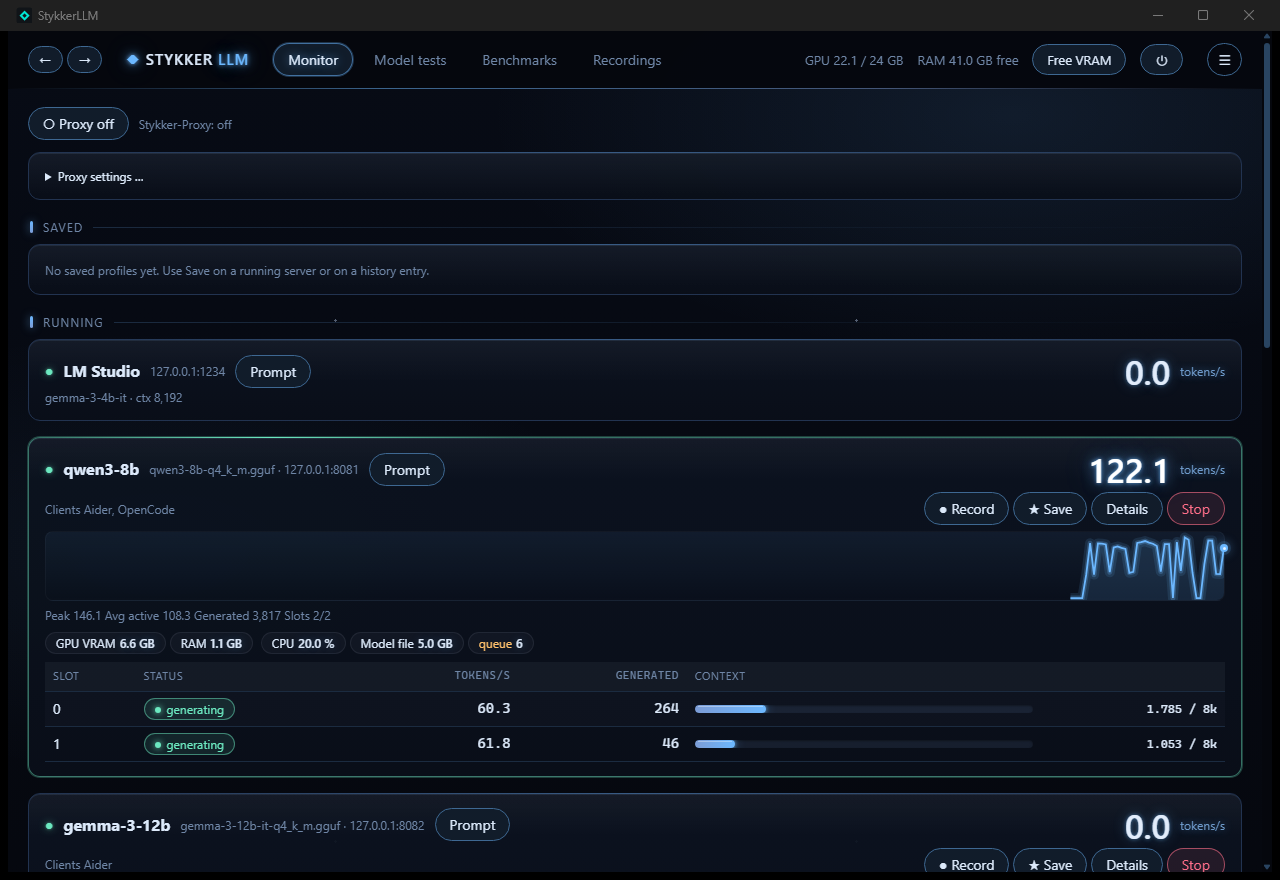
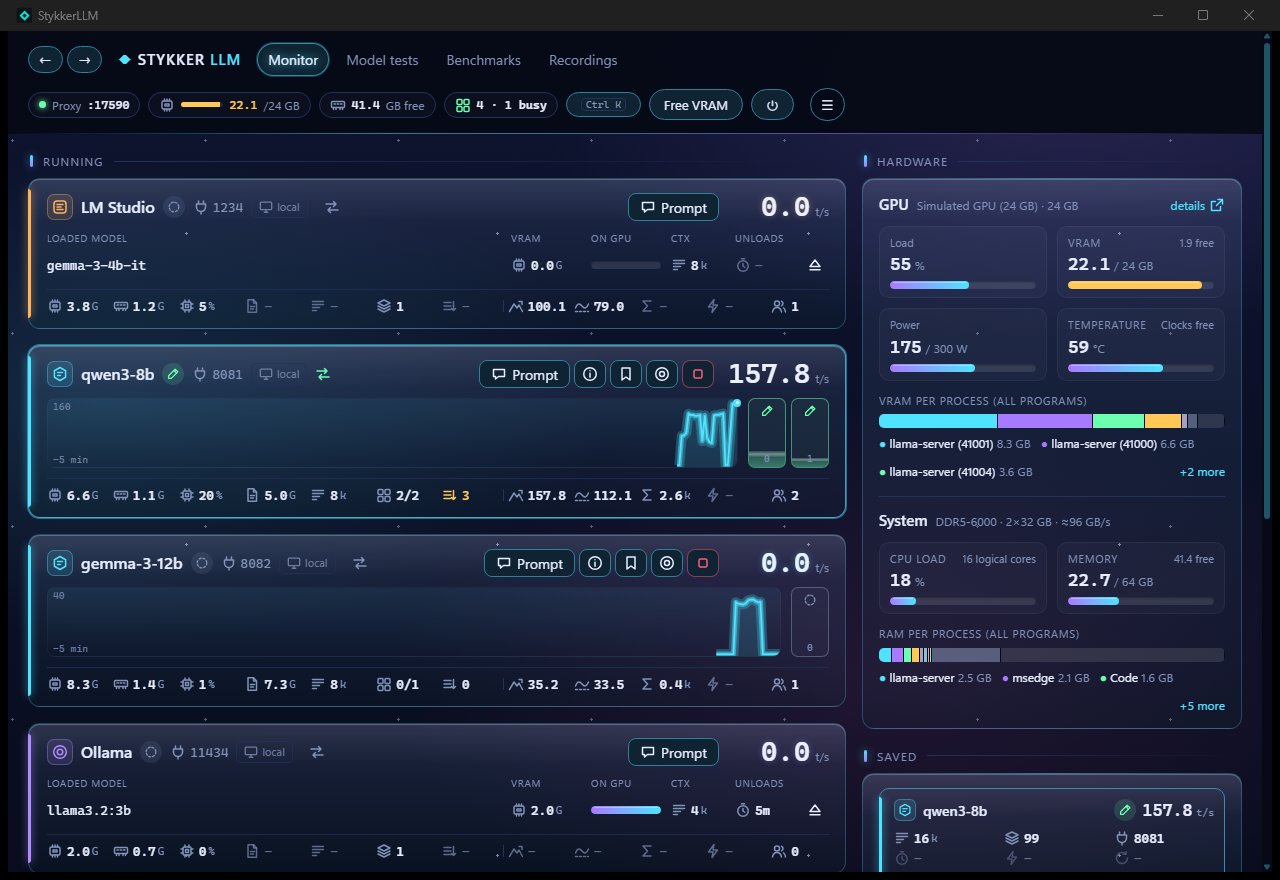
Doku-Bilder im neuen Design; Benchmarks im Simulator, Kopfleiste bricht im Fenster um
- docs/images: benchmarks.png, window.png, phone.png (statt phone.jpg) aus dem Simulator
- MonitorEngine.BenchClient: der Simulator leitet Benchmark-Anfragen auf seine Welt um
- BenchmarkService: ohne Kontextangabe gilt die Slot-Größe des Servers (Kontext-Leiter läuft)
- Bench: Platzhalter "Pick a running server or a saved profile"
- app.css: Statusleiste im Kopf bricht unter 1400 px und im Fenster um
- Test N65: Benchmark mit Kontext-Stufe im Simulator

diff --git a/src/StykkerLlm.Server/wwwroot/app.css b/src/StykkerLlm.Server/wwwroot/app.css
@@ -643,7 +643,8 @@ html[data-theme=titan] .pf.tight{background-image:repeating-linear-gradient(-45d
 html[data-theme=titan] nav a{font-family:var(--font);letter-spacing:.02em}
 .brand .logo{animation:none}
 .top{flex-wrap:nowrap}.top nav{flex:none}.top .status{min-width:0;flex-wrap:nowrap}.top .status button,.top .status a{white-space:nowrap}
-@media(max-width:1180px){.top{flex-wrap:wrap}.top .status{flex-wrap:wrap;overflow:visible}}
+@media(max-width:1400px){.top{flex-wrap:wrap}.top .status{flex-wrap:wrap;overflow:visible;margin-left:0}}
+html.shell .top{flex-wrap:wrap}html.shell .top .status{flex-wrap:wrap}   /* Fenster: Zurück/Vor brauchen zusätzlich Platz */
 [data-view=small] .top{flex-wrap:wrap}[data-view=small] .top .status{flex-wrap:wrap;overflow:visible}
 .theme-seg button{min-width:110px}
 @media(max-width:1560px){.hsearch span:first-child{display:none}.top nav a{padding:5px 10px}.top{gap:12px 16px}}

diff --git a/tests/StykkerLlm.Tests/N65_SimBenchmarkTests.cs b/tests/StykkerLlm.Tests/N65_SimBenchmarkTests.cs
@@ -1,0 +1,33 @@
+using StykkerLlm.Core;
+
+namespace StykkerLlm.Tests;
+
+// Benchmarks laufen auch im Simulator (für Vorführung und Doku-Bilder); ohne Kontextangabe der Seite nimmt der Dienst
+// die Slot-Größe des Servers, sonst entfiele die Kontext-Leiter
+[TestClass]
+public class N65_SimBenchmarkTests
+{
+    [TestMethod, Timeout(60000)]
+    public async Task Benchmark_RunsInTheSimulator_WithTheContextLadder()
+    {
+        var spec = new SimServerSpec { Kind = BackendKind.LlamaCpp, Name = "sim-b", Model = "m", Context = 8192, Slots = 1, TpsMin = 400, TpsMax = 500 };
+        using var host = new SimHost(new List<SimServerSpec> { spec }, seed: 7, autoStep: true);
+        host.World.Start();
+        ServerWatcher? w = null;
+        for (int i = 0; i < 20 && (w == null || !w.Online || w.Slots.Count == 0); i++)
+        {
+            await host.Engine.Registry.RefreshNowAsync();
+            await host.Engine.TickAsync();
+            w = host.Engine.Servers.FirstOrDefault(s => s.Name == "sim-b");
+        }
+        Assert.IsNotNull(w, "der simulierte Server wird erkannt");
+
+        var options = new BenchOptions { Chat = true, Tool = false, Parallel = false, ContextSizes = new[] { 1024 }, ContextPerSlot = 0, GenTokens = 16 };
+        var result = await new BenchmarkService().RunAsync(host.Engine, new LaunchCoordinator(host.Engine, new RemotePrompt()), w!.Key, options);
+        Assert.IsNotNull(result);
+        string steps = string.Join("; ", result.Steps.Select(s => $"{s.Kind}/{s.Name}:{s.Ok} {s.Note}"));
+        Assert.IsTrue(result.Steps.Any(s => s.Kind == "chat" && s.Ok), steps);
+        Assert.IsTrue(result.Steps.Any(s => s.Kind == "context" && s.Ok), "Kontext-Stufe ohne Angabe der Seite: " + steps);
+        Assert.IsTrue(result.ContextPerSlot > 0);
+    }
+}

diff --git a/src/StykkerLlm.Core/Server/BenchmarkService.cs b/src/StykkerLlm.Core/Server/BenchmarkService.cs
@@ -46,12 +46,18 @@ public sealed class BenchmarkService
                 options.ContextPerSlot = Math.Max(1, (server.Props?.NCtx ?? options.ContextPerSlot * options.Slots) / Math.Max(1, options.Slots));
                 options.Slots = Math.Max(1, server.Props?.TotalSlots ?? options.Slots);
             }
+            // Kontext je Slot unbekannt (Seite ohne /props-Angabe): aus den Slots des Servers, sonst entfiele die Kontext-Leiter
+            if (options.ContextPerSlot <= 0)
+            {
+                int perSlot = server.Slots.Count > 0 ? server.Slots.Max(v => v.CtxMax) : (server.Props?.NCtx ?? 0) / Math.Max(1, server.Props?.TotalSlots ?? 1);
+                if (perSlot > 0) { options.ContextPerSlot = perSlot; options.Slots = Math.Max(options.Slots, server.Slots.Count); }
+            }
             options.ApiKey = server.Info.ApiKey;
             if (!engine.Recorder.IsRecording(server.Key))
                 session = engine.Recorder.Start(server.Key, engine.Servers, engine.Gpu?.Name ?? "", false);
             result = BenchmarkRunner.Describe(server, engine.Library, engine.Gpu?.Name ?? "", engine.Platform.GpuDriver);
             Current = result;
-            using var http = new HttpClient { Timeout = Timeout.InfiniteTimeSpan };
+            using var http = engine.BenchClient?.Invoke() ?? new HttpClient { Timeout = Timeout.InfiniteTimeSpan };
             await BenchmarkRunner.RunAsync(http, server.Url, options, result,
                 msg => Say(msg),
                 step => Progress?.Invoke("", step),

diff --git a/src/StykkerLlm.Core/Strings.Ui.cs b/src/StykkerLlm.Core/Strings.Ui.cs
@@ -234,6 +234,7 @@ public static partial class Strings
     public const string BenchRepeats = "Repeats", BenchGenTokens = "Tokens per test";
     public const string BenchRun = "Run benchmark …", BenchResults = "Saved results", BenchWillStart = "(not running: will be started)";
     public const string BenchNoTarget = "There is no running llama.cpp server and no saved profile to measure.";
+    public const string BenchPickTarget = "Pick a running server or a saved profile …";
     public const string BenchNothingSelected = "Select at least one test.";
     public static string BenchStarting(string name) => $"Starting profile \"{name}\" and waiting for the server …";
     public const string BenchStartFailed = "The profile could not be started.", BenchCancelled = "Cancelled. The finished steps were saved.";

diff --git a/src/StykkerLlm.Core/Simulation/SimHost.cs b/src/StykkerLlm.Core/Simulation/SimHost.cs
@@ -44,6 +44,7 @@ public sealed class SimHost : IDisposable
         foreach (var s in specs) World.Add(s);
         Engine = new MonitorEngine(Platform, Paths, Settings, Http, simulation: World,
             proxyFactory: port => new SimRouterProxy(port));
+        Engine.BenchClient = () => new HttpClient(new SimHandler(World)) { Timeout = Timeout.InfiniteTimeSpan };
         World.Observed += (key, rec) =>
         {
             if (Engine.Proxies.Proxy is SimRouterProxy p) p.Observe(rec);

diff --git a/src/StykkerLlm.Core/MonitorEngine.cs b/src/StykkerLlm.Core/MonitorEngine.cs
@@ -12,6 +12,8 @@ public sealed class MonitorEngine : IDisposable
     private const double VramWarnGb = 1.0;
 
     private readonly HttpClient _http;
+    // Client für Benchmarks (ohne Zeitgrenze); der Simulator setzt seinen eigenen, damit Benchmarks auch dort laufen
+    public Func<HttpClient>? BenchClient { get; set; }
     private readonly bool _ownsHttp;
     private readonly Func<DateTime> _now;
     private bool _discovered, _polling, _vramLow, _disposed;

diff --git a/docs/plan-ui-redesign.md b/docs/plan-ui-redesign.md
@@ -1,6 +1,6 @@
 # Plan: new web interface (Dark + Spacepunk Titan)
 
-Status: **U1–U14 done** (2026-10-08). README monitor images captured with headless Edge (Dark and Titan); also model tests and GPU; benchmarks, phone and window images still show the old design. Stop keeps its detailed confirm dialog (process, PID, clients) instead of a small popover. Approved by the owner on 2026-10-07. Work happens on `dev`, package by package; after each package:
+Status: **U1–U14 done** (2026-10-08). README monitor images captured with headless Edge (Dark and Titan); also model tests, GPU, benchmarks (the simulator now runs benchmarks) and phone; the window image comes from StykkerUI against the simulator. Only the TUI image is older. Stop keeps its detailed confirm dialog (process, PID, clients) instead of a small popover. Approved by the owner on 2026-10-07. Work happens on `dev`, package by package; after each package:
 build, all tests, a screenshot in Dark and Titan, commit.
 
 Reference: the mockups in `docs/design/` (open them in a browser, controls at the bottom left).

diff --git a/README.de.md b/README.de.md
@@ -62,7 +62,7 @@ jedem Browser oder auf dem Handy; im Terminal behältst du alles im Blick. Nicht
 ![Fenster StykkerUI](docs/images/window.png)
 
 <table><tr>
-<td width="30%"><img src="docs/images/phone.jpg" alt="Handy-Ansicht"></td>
+<td width="30%"><img src="docs/images/phone.png" alt="Handy-Ansicht"></td>
 <td><img src="docs/images/tui.png" alt="Anzeige im Terminal (stykker)"></td>
 </tr><tr><td>Handy (kompakte Ansicht)</td><td>Terminal: <code>stykker</code>, Details eines Servers offen</td></tr></table>
 

diff --git a/README.md b/README.md
@@ -61,7 +61,7 @@ any browser or your phone; keep an eye on it in the terminal. Nothing leaves you
 ![StykkerUI window](docs/images/window.png)
 
 <table><tr>
-<td width="30%"><img src="docs/images/phone.jpg" alt="phone view"></td>
+<td width="30%"><img src="docs/images/phone.png" alt="phone view"></td>
 <td><img src="docs/images/tui.png" alt="terminal display (stykker)"></td>
 </tr><tr><td>Phone (compact view)</td><td>Terminal: <code>stykker</code>, details of a server open</td></tr></table>
 
